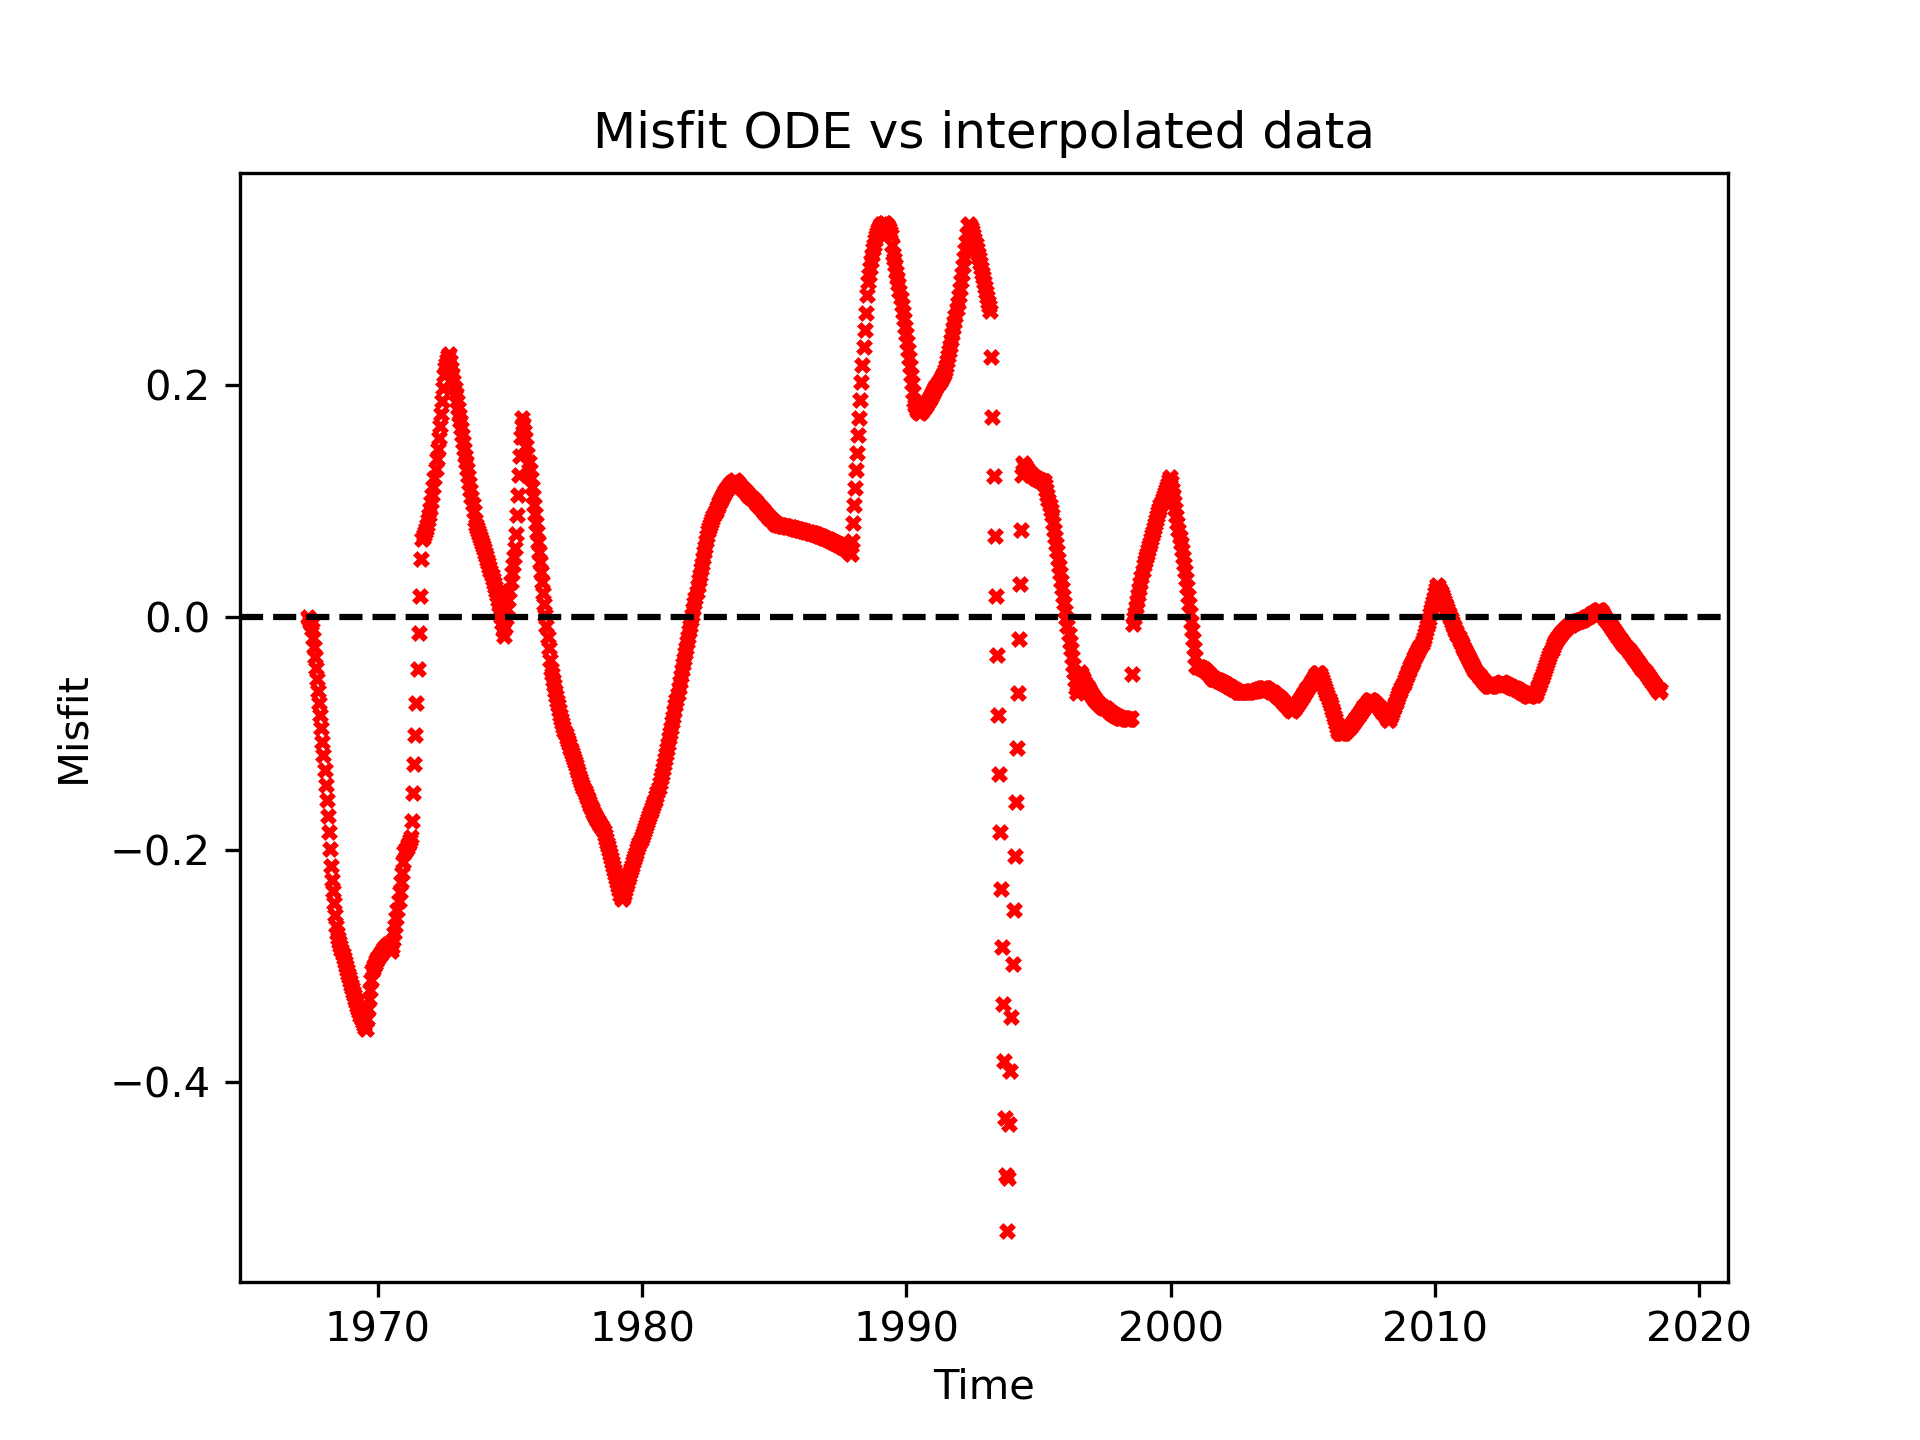
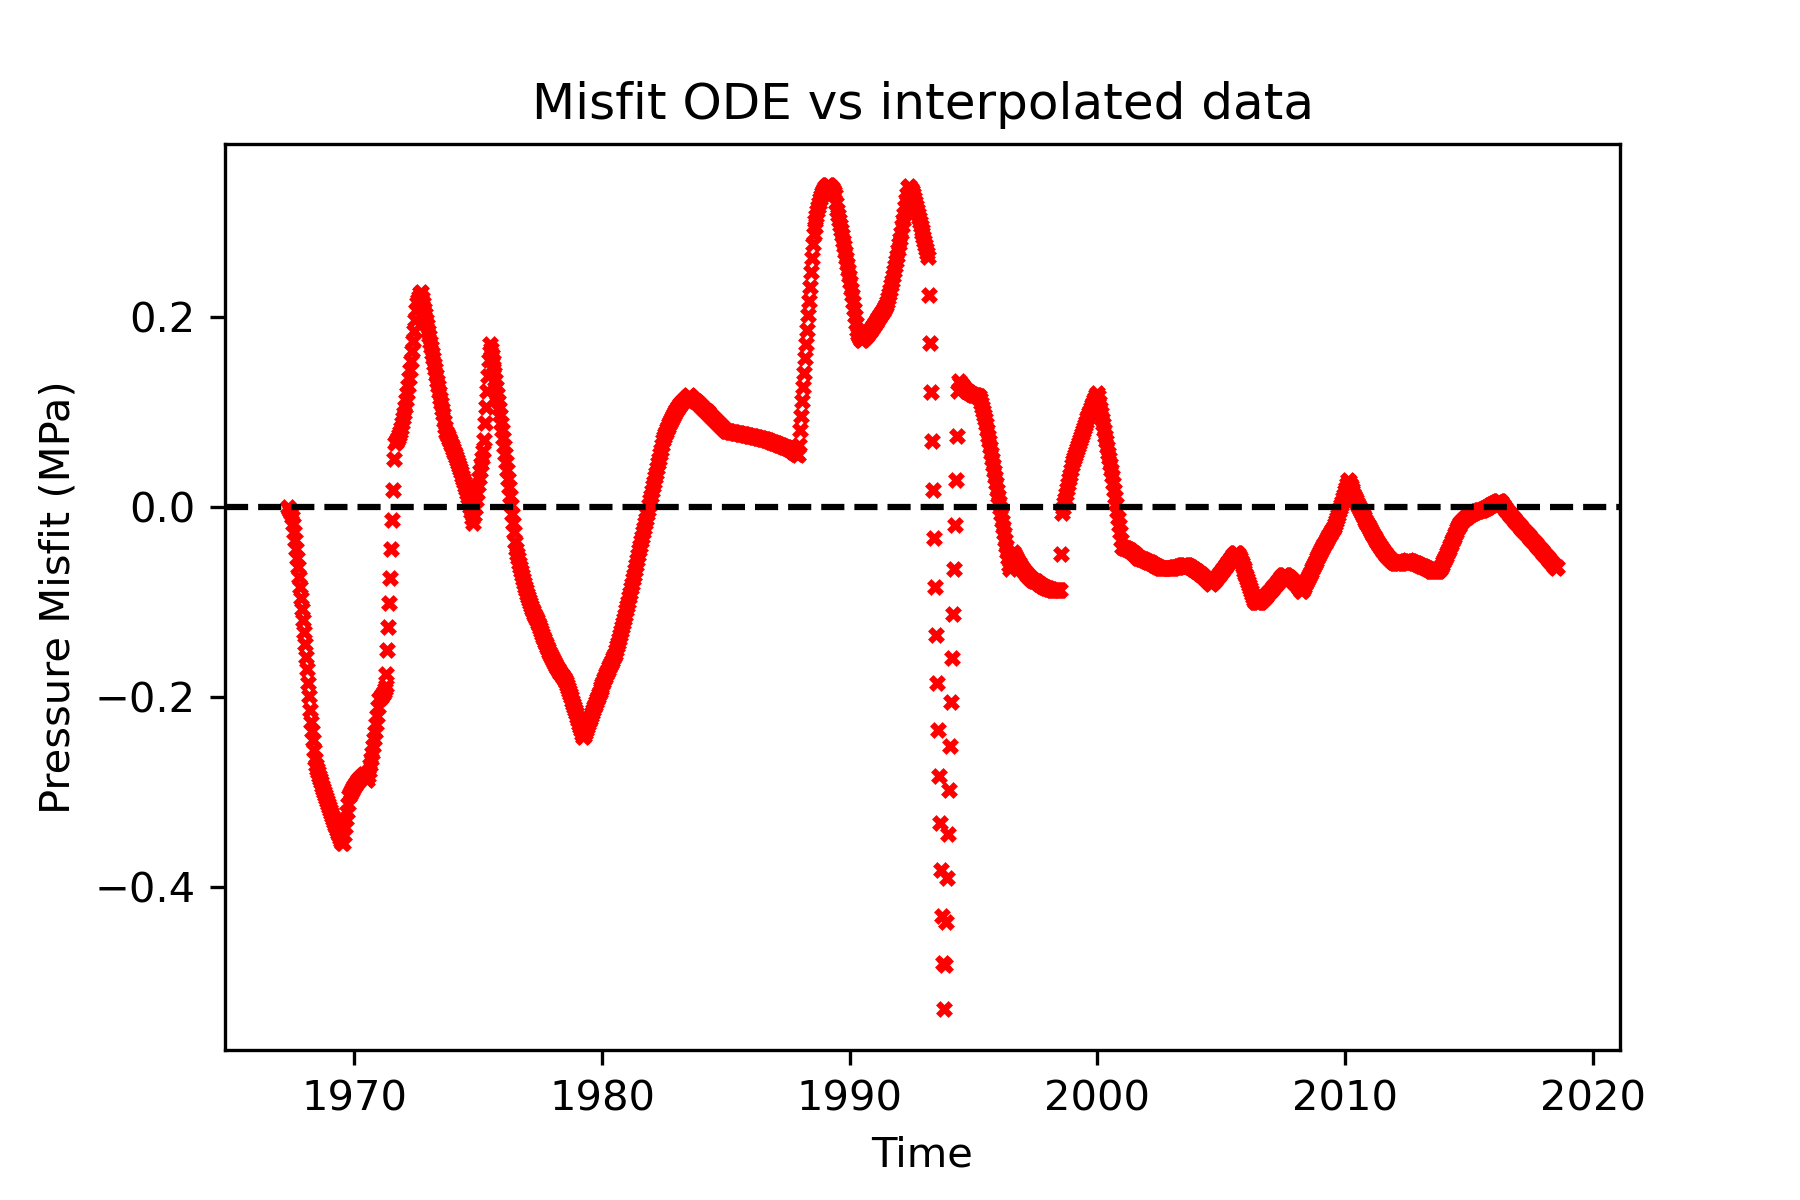
uncertainty implemented for 3 paratmers for pressure

diff --git a/project_1/uncertainty.py b/project_1/uncertainty.py
@@ -13,7 +13,7 @@ v = 0.1
 def grid_search():
     
 	# number of values considered for each parameter within a given interval
-    N = 20
+    N = 10
 
     a = np.linspace(a_best/2,a_best*1.5, N)
     b = np.linspace(b_best/2,b_best*1.5, N)
@@ -48,9 +48,16 @@ def grid_search():
 def construct_samples(a,b,c,P,N_samples):
     
     
+    covariance = [[ 6.30849660e-10,  5.63881376e-08, -7.74700619e-10],
+ [ 5.63881376e-08,  5.34482603e-06, -7.08162879e-08],
+ [-7.74700619e-10, -7.08162879e-08,  4.56847077e-09]]
+
+    covariance = np.multiply(covariance, 100)
+    
     samples = np.random.multivariate_normal(mean, covariance, N_samples)
     plot_samples3D(a,b,c,P,samples)
-    
+    print(covariance)
+    print("hello")
     print(samples)
     return samples
 
@@ -63,7 +70,7 @@ def model_emsemble(samples):
          tm, pm = solve_pressure_ode(pressure_ode_model, tp[0], 
                                         pA[0], tp[-1], STEP, [a, b, c])
          pm = np.interp(tp, tm, pm)
-         ax.plot(tp, pm, 'k-', lw=0.25,alpha=0.2)
+         ax.plot(tp, pm, 'b', lw=0.25,alpha=0.2)
     ax.plot([],[],'k-', lw=0.5,alpha=0.4, label='model ensemble')
     ax.axvline(2004, color='b', linestyle=':', label='calibration/forecast')
     ax.errorbar(tp,pA,yerr=v,fmt='ro', label='data')         

diff --git a/project_1/plot_lpm.py b/project_1/plot_lpm.py
@@ -57,7 +57,7 @@ def plot_pressure_benchmark():
 
     # Get values for pressure to Benchmark using the numerical solver.
     conc = 0
-    t_odeA, p_odeA = solve_pressure_const_q(pressure_ode_model, time[0], PRESSURE[0], time[-1], STEP, [q, conc,  *PARS_P])
+    t_odeA, p_odeA = solve_pressure_const_q(pressure_ode_model, time[0], PRESSURE[0], time[-1], STEP, [q, *PARS_P])
     # Get values of pressure using the analytical solution
     p_ana = pressure_analytical_solution(time, q, *PARS_P)
 
@@ -415,6 +415,6 @@ def plot_samples2D(a, b, P, samples):
     plt.show()
 
 if __name__ == "__main__":
-    #plot_pressure_benchmark()
-    plot_conc_benchmark()
+    plot_pressure_benchmark()
+    #plot_conc_benchmark()
     #plot_model_predictions()
